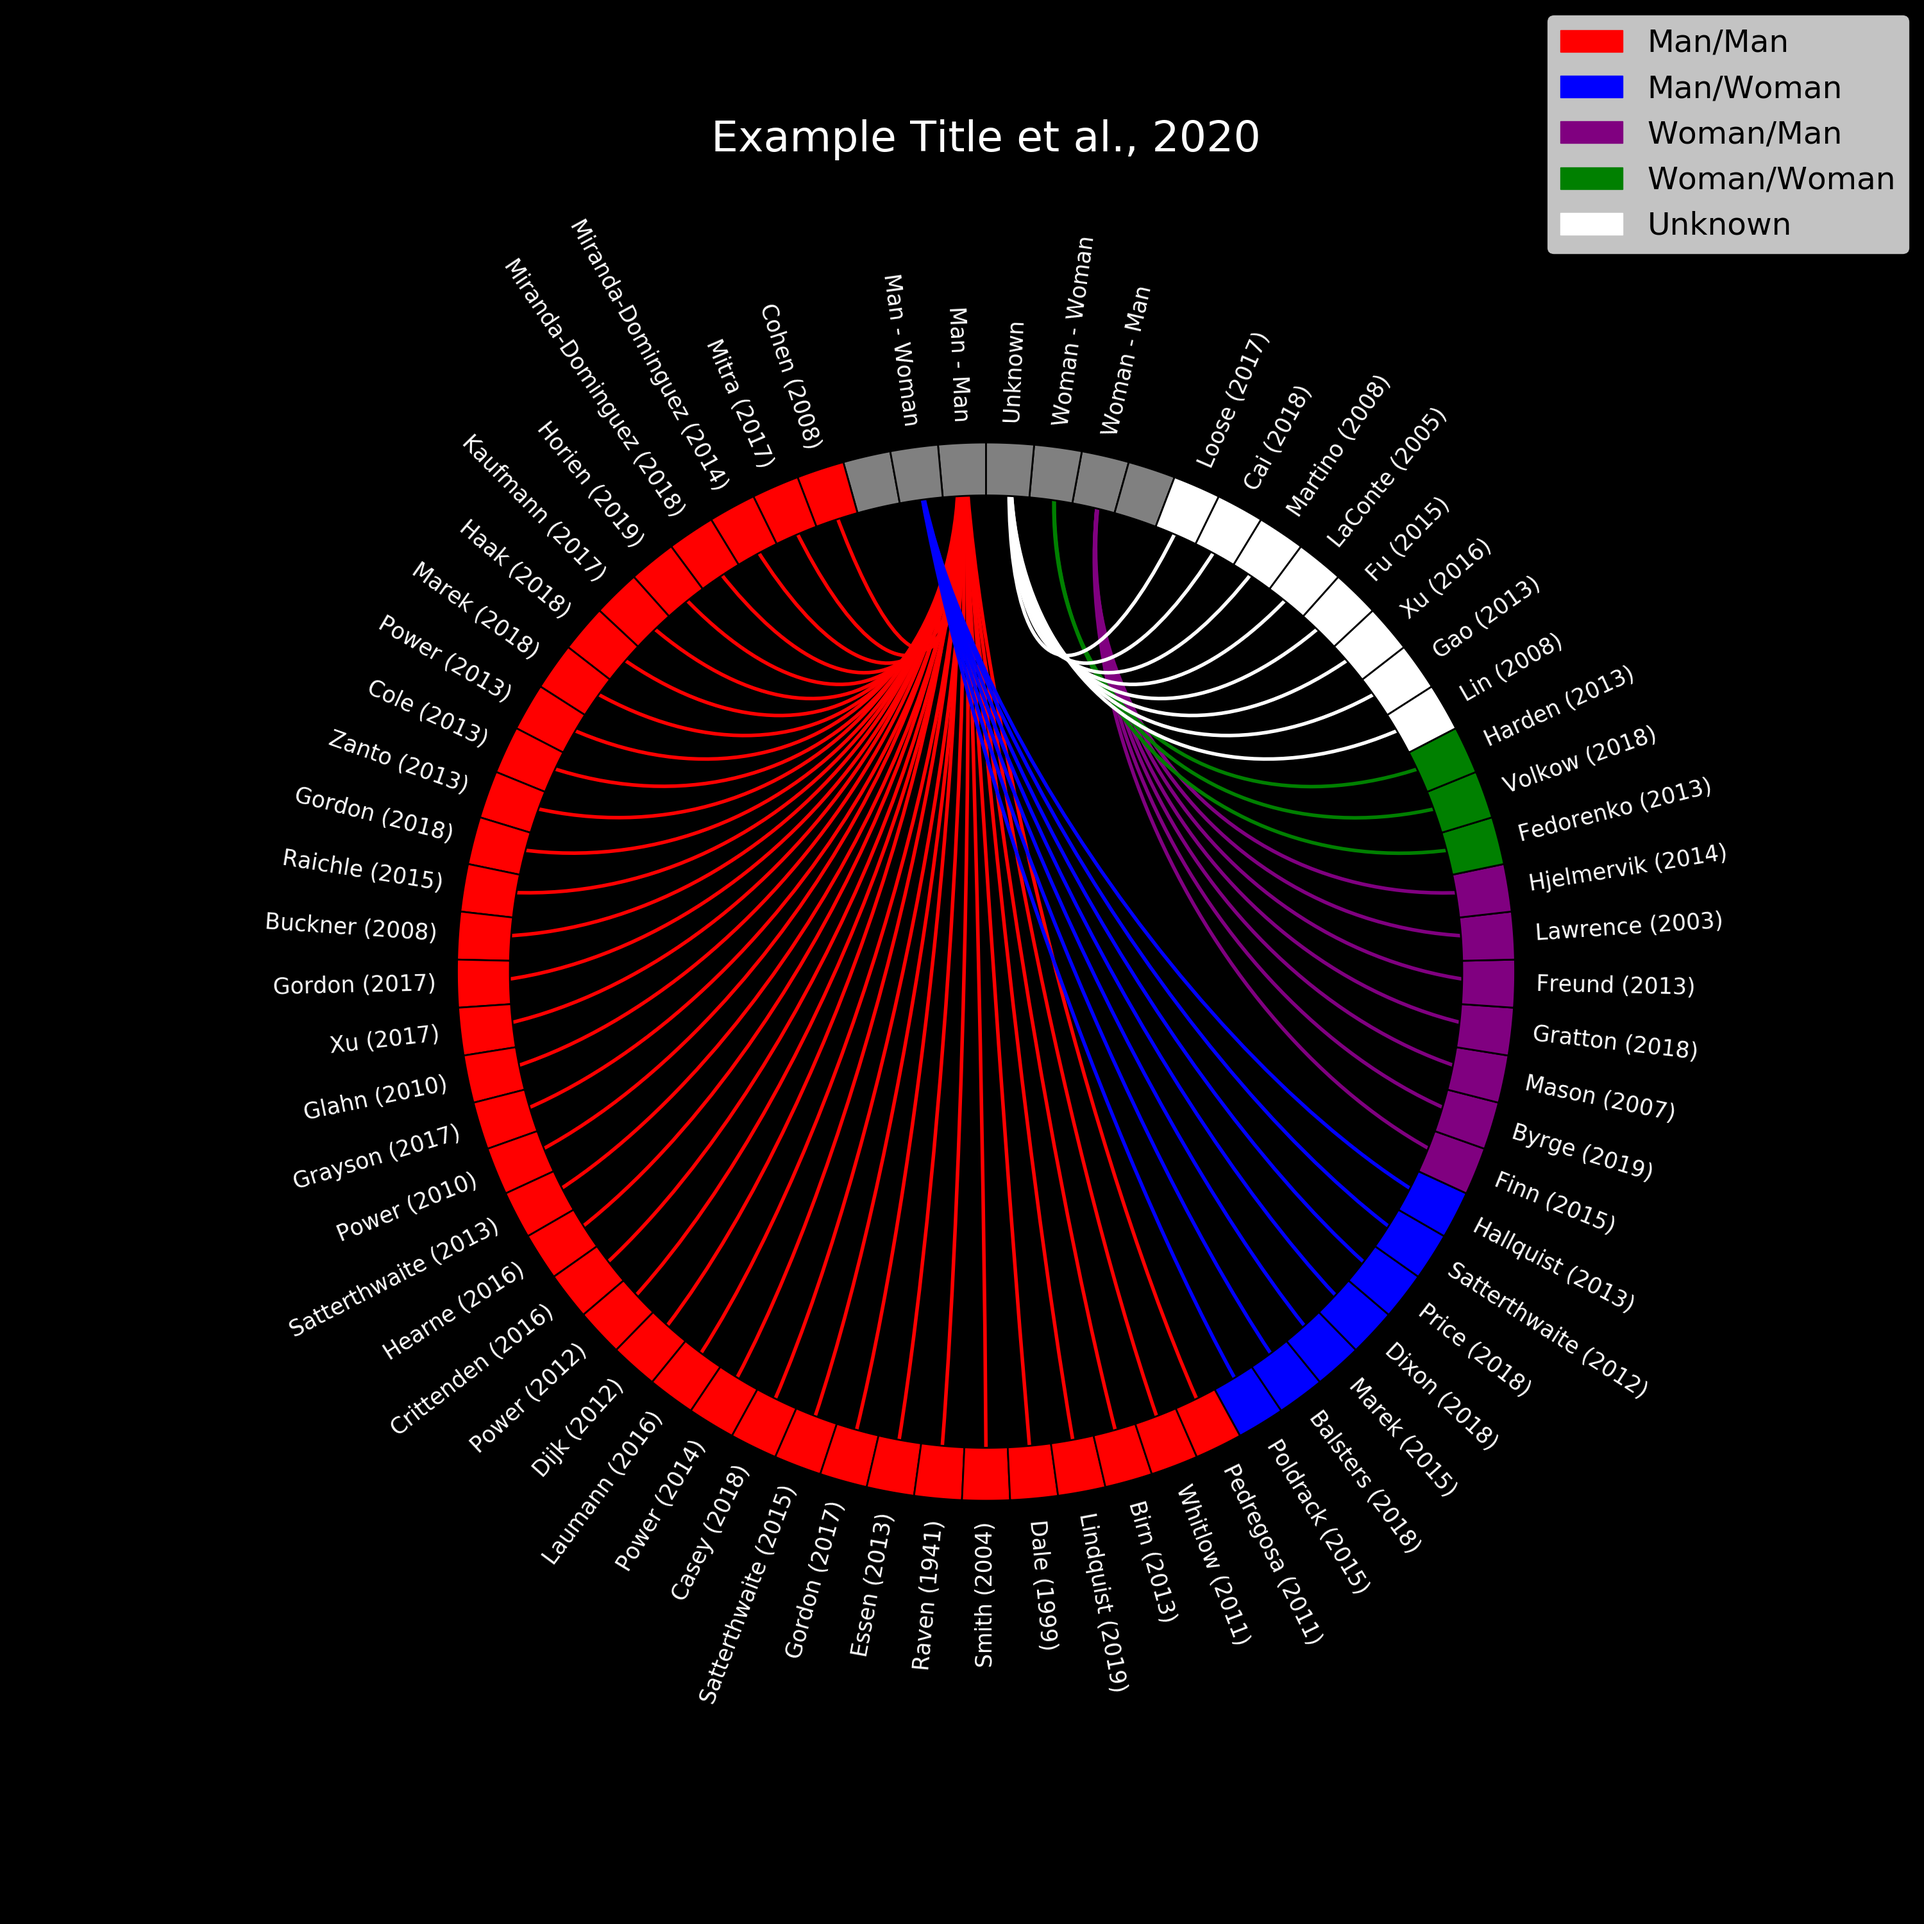
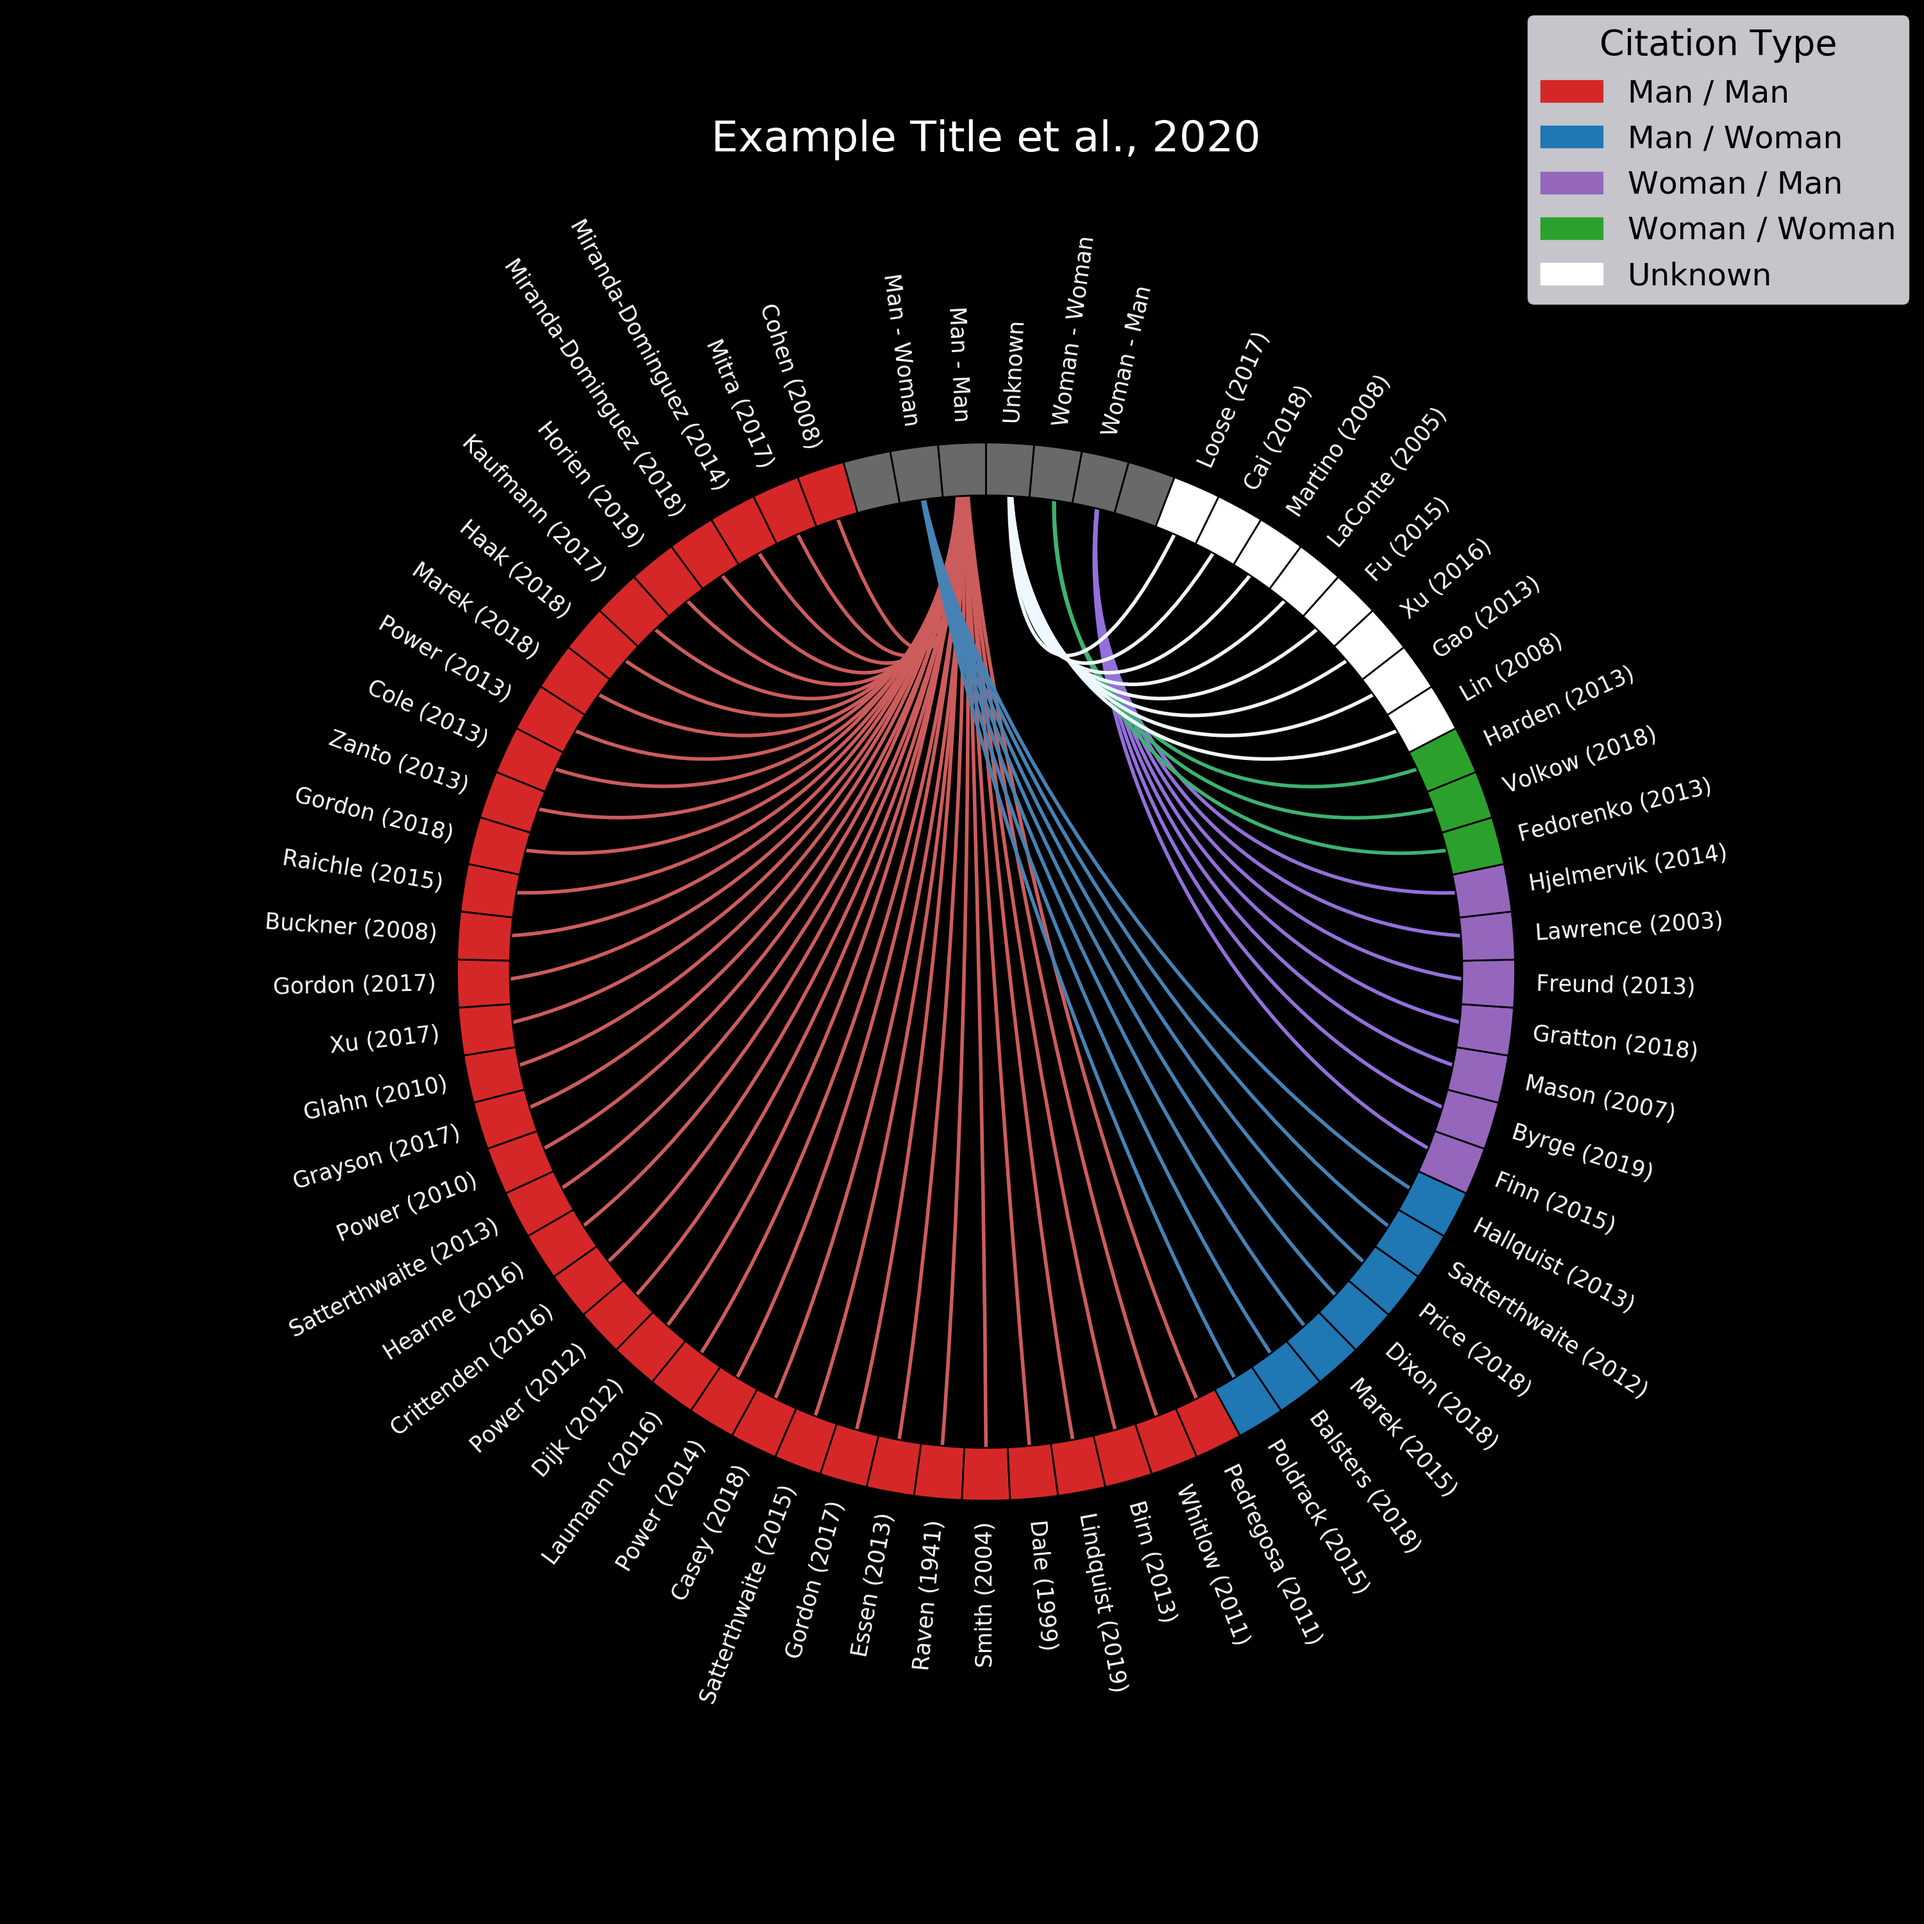
small updates
added color options, aesthetic updates, code cleaning

Changed region(s): [[0.217, 0.248, 0.806, 0.806], [0.775, 0.0, 0.992, 0.186]]

diff --git a/grepCIRCLE.py b/grepCIRCLE.py
@@ -43,9 +43,9 @@ def main(argv=sys.argv):
                             help='FULL path to Authors.csv file. (created with cleanBib[1] tool)'
                             )
     arg_parser.add_argument('-ccol', action='store', nargs='*',
-                            required=False, default=['red','blue','purple','green','white'],
+                            required=False, default=['indianred','steelblue','mediumpurple','mediumseagreen','aliceblue'],
                             help='Connections color list: '
-                                 'Enter SPACE separated matplotlib color names. '
+                                 'Enter 5 SPACE separated matplotlib color names. '
                                  'Req order: MM, MW, WM, WW, Unknown '
                                  '(DEFAULT: [red blue purple green white])',
                             dest='ccol'
@@ -57,9 +57,9 @@ def main(argv=sys.argv):
                             dest='lcol'
                             )
     arg_parser.add_argument('-ncol', action='store', nargs='*',
-                            required=False, default=['dimgrey','red','blue','purple','green','white'],
+                            required=False, default=['dimgrey','tab:red','tab:blue','tab:purple','tab:green','white'],
                             help='Node color list: '
-                                 'Enter SPACE separated matplotlib color names. '
+                                 'Enter 6 SPACE separated matplotlib color names. '
                                  'Req order: labels, MM, MW, WM, WW, Unknown '
                                  '(DEFAULT: [dimgrey red blue purple green white])',
                             dest='ncol'
@@ -228,13 +228,15 @@ def main(argv=sys.argv):
         norm = colors.BoundaryNorm(boundaries, cmap.N, clip=True)
 
         # Make Custom/Manual Legend
-        MM_patch = mpatches.Patch(color=ccol[0], label='Man/Man')
-        MW_patch = mpatches.Patch(color=ccol[1], label='Man/Woman')
-        WM_patch = mpatches.Patch(color=ccol[2], label='Woman/Man')
-        WW_patch = mpatches.Patch(color=ccol[3], label='Woman/Woman')
-        U_patch = mpatches.Patch(color=ccol[4], label='Unknown')
+        MM_patch = mpatches.Patch(color=ncol[1], label='Man / Man')
+        MW_patch = mpatches.Patch(color=ncol[2], label='Man / Woman')
+        WM_patch = mpatches.Patch(color=ncol[3], label='Woman / Man')
+        WW_patch = mpatches.Patch(color=ncol[4], label='Woman / Woman')
+        U_patch = mpatches.Patch(color=ncol[5], label='Unknown')
         plt.gcf().legend(handles=[MM_patch,MW_patch,WM_patch,WW_patch,U_patch],
-                         loc=1, facecolor=args.lcol, prop={'size':35})
+                         loc=1, facecolor=args.lcol, prop={'size':35},
+                         title='Citation Type',
+                         title_fontsize=40)
 
         ## Create Circle Graph
         plot_connectivity_circle(cite_mat, cleaned_titles,

diff --git a/README.md b/README.md
@@ -26,21 +26,28 @@ positional arguments:
 
 optional arguments:
   -h, --help            show this help message and exit
+
   -ccol [CCOL [CCOL ...]]
-                        Connections color list: Enter SPACE separated
+                        Connections color list: Enter 5 SPACE separated
                         matplotlib color names. Req order: MM, MW, WM, WW,
                         Unknown (DEFAULT: [red blue purple green white])
+
   -lcol LCOL            Legend background color. Must be matplotlib color
                         string. (DEFAULT = ghostwhite)
+
   -ncol [NCOL [NCOL ...]]
-                        Node color list: Enter SPACE separated matplotlib
+                        Node color list: Enter 6 SPACE separated matplotlib
                         color names. Req order: labels, MM, MW, WM, WW,
                         Unknown (DEFAULT: [dimgrey red blue purple green
                         white])
+
   -o OUT_DIR            Location for saved circle graph image. (DEFAULT = pwd)
+
   -t TITLE [TITLE ...]  Title for circle graph. (DEFAULT = None)
+
   -q                    Quiet mode suppresses all QA/extra info printouts.
                         (Errors always printed)
+
   -v, --version         show program's version number and exit
 ```
 
